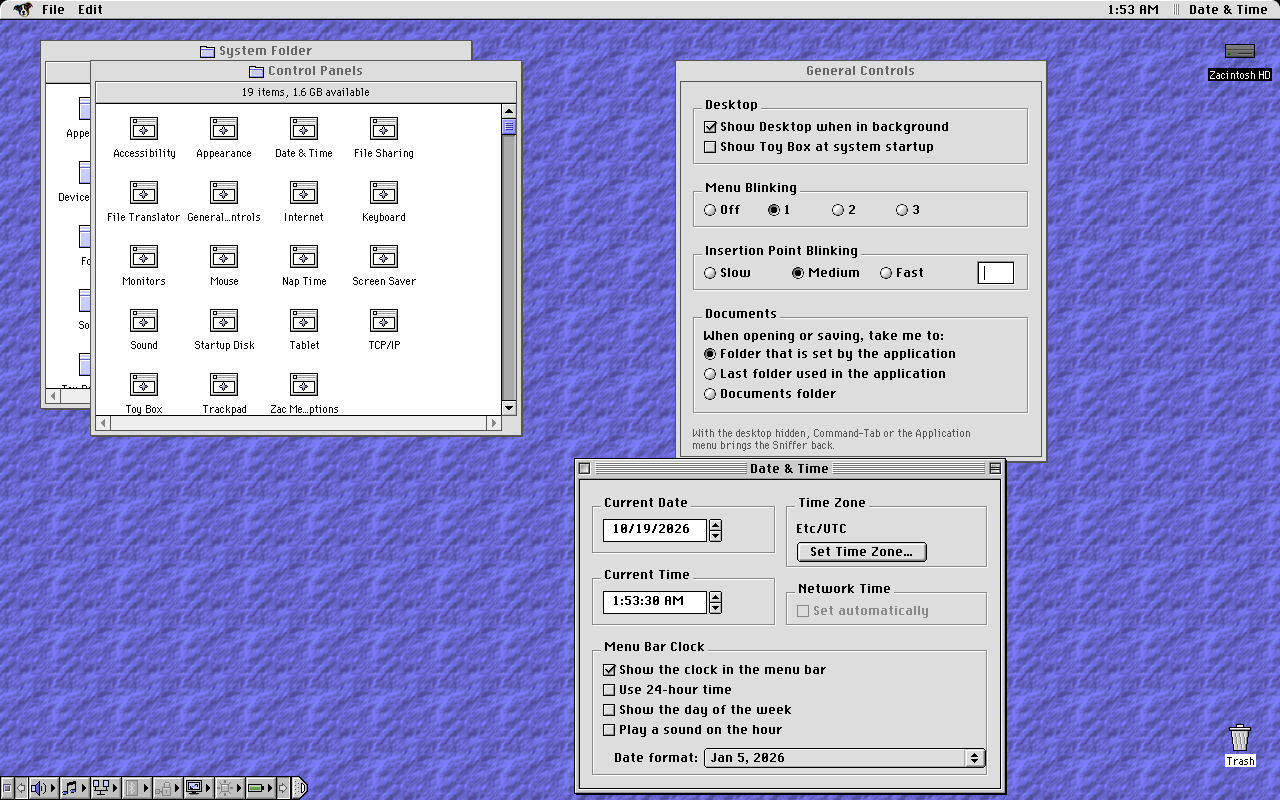
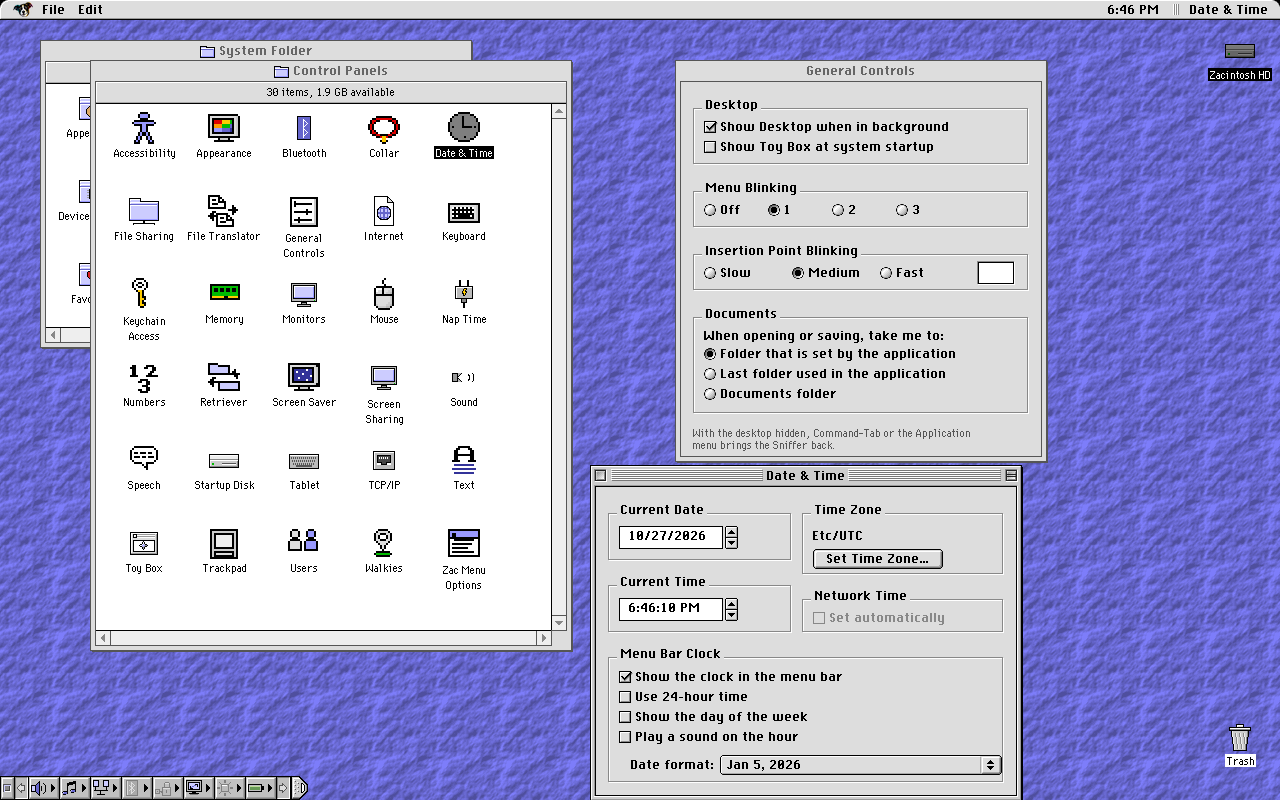
README screenshots from 1.1.0
The five README screenshots were from the 1.0.0 live ISO. These are from
the 1.1.0 live ISO in QEMU, set up the same way: the control panels now
show their own icons, the Zac menu its desk accessories' icons, and About
This Computer says 1.1.0.

diff --git a/README.md b/README.md
@@ -36,7 +36,7 @@ so everything looks and behaves the same way, down to the scroll arrows.
 <table>
   <tr>
     <td width="50%"><img src="docs/screenshots/zac-menu.png" alt="The Zac menu open, listing control panels, recent items and desk accessories"></td>
-    <td width="50%"><img src="docs/screenshots/control-panels.png" alt="The System Folder, Control Panels, General Controls and Date &amp; Time windows"></td>
+    <td width="50%"><img src="docs/screenshots/control-panels.png" alt="The System Folder, the Control Panels folder with its 30 panels, General Controls and Date &amp; Time"></td>
   </tr>
   <tr>
     <td><b>The Zac menu</b>: desk accessories (Calculator, Notepad, Stash, Dog Ears,
@@ -46,7 +46,7 @@ so everything looks and behaves the same way, down to the scroll arrows.
   </tr>
   <tr>
     <td><img src="docs/screenshots/software.png" alt="The Software window, listing Firefox, GIMP, LibreOffice and VLC"></td>
-    <td><img src="docs/screenshots/about.png" alt="About This Computer, showing ZacOS 9 version 1.0.0"></td>
+    <td><img src="docs/screenshots/about.png" alt="About This Computer, showing ZacOS 9 version 1.1.0"></td>
   </tr>
   <tr>
     <td><b>Thousands of programs</b>: Firefox, LibreOffice, GIMP, VLC and the rest of
